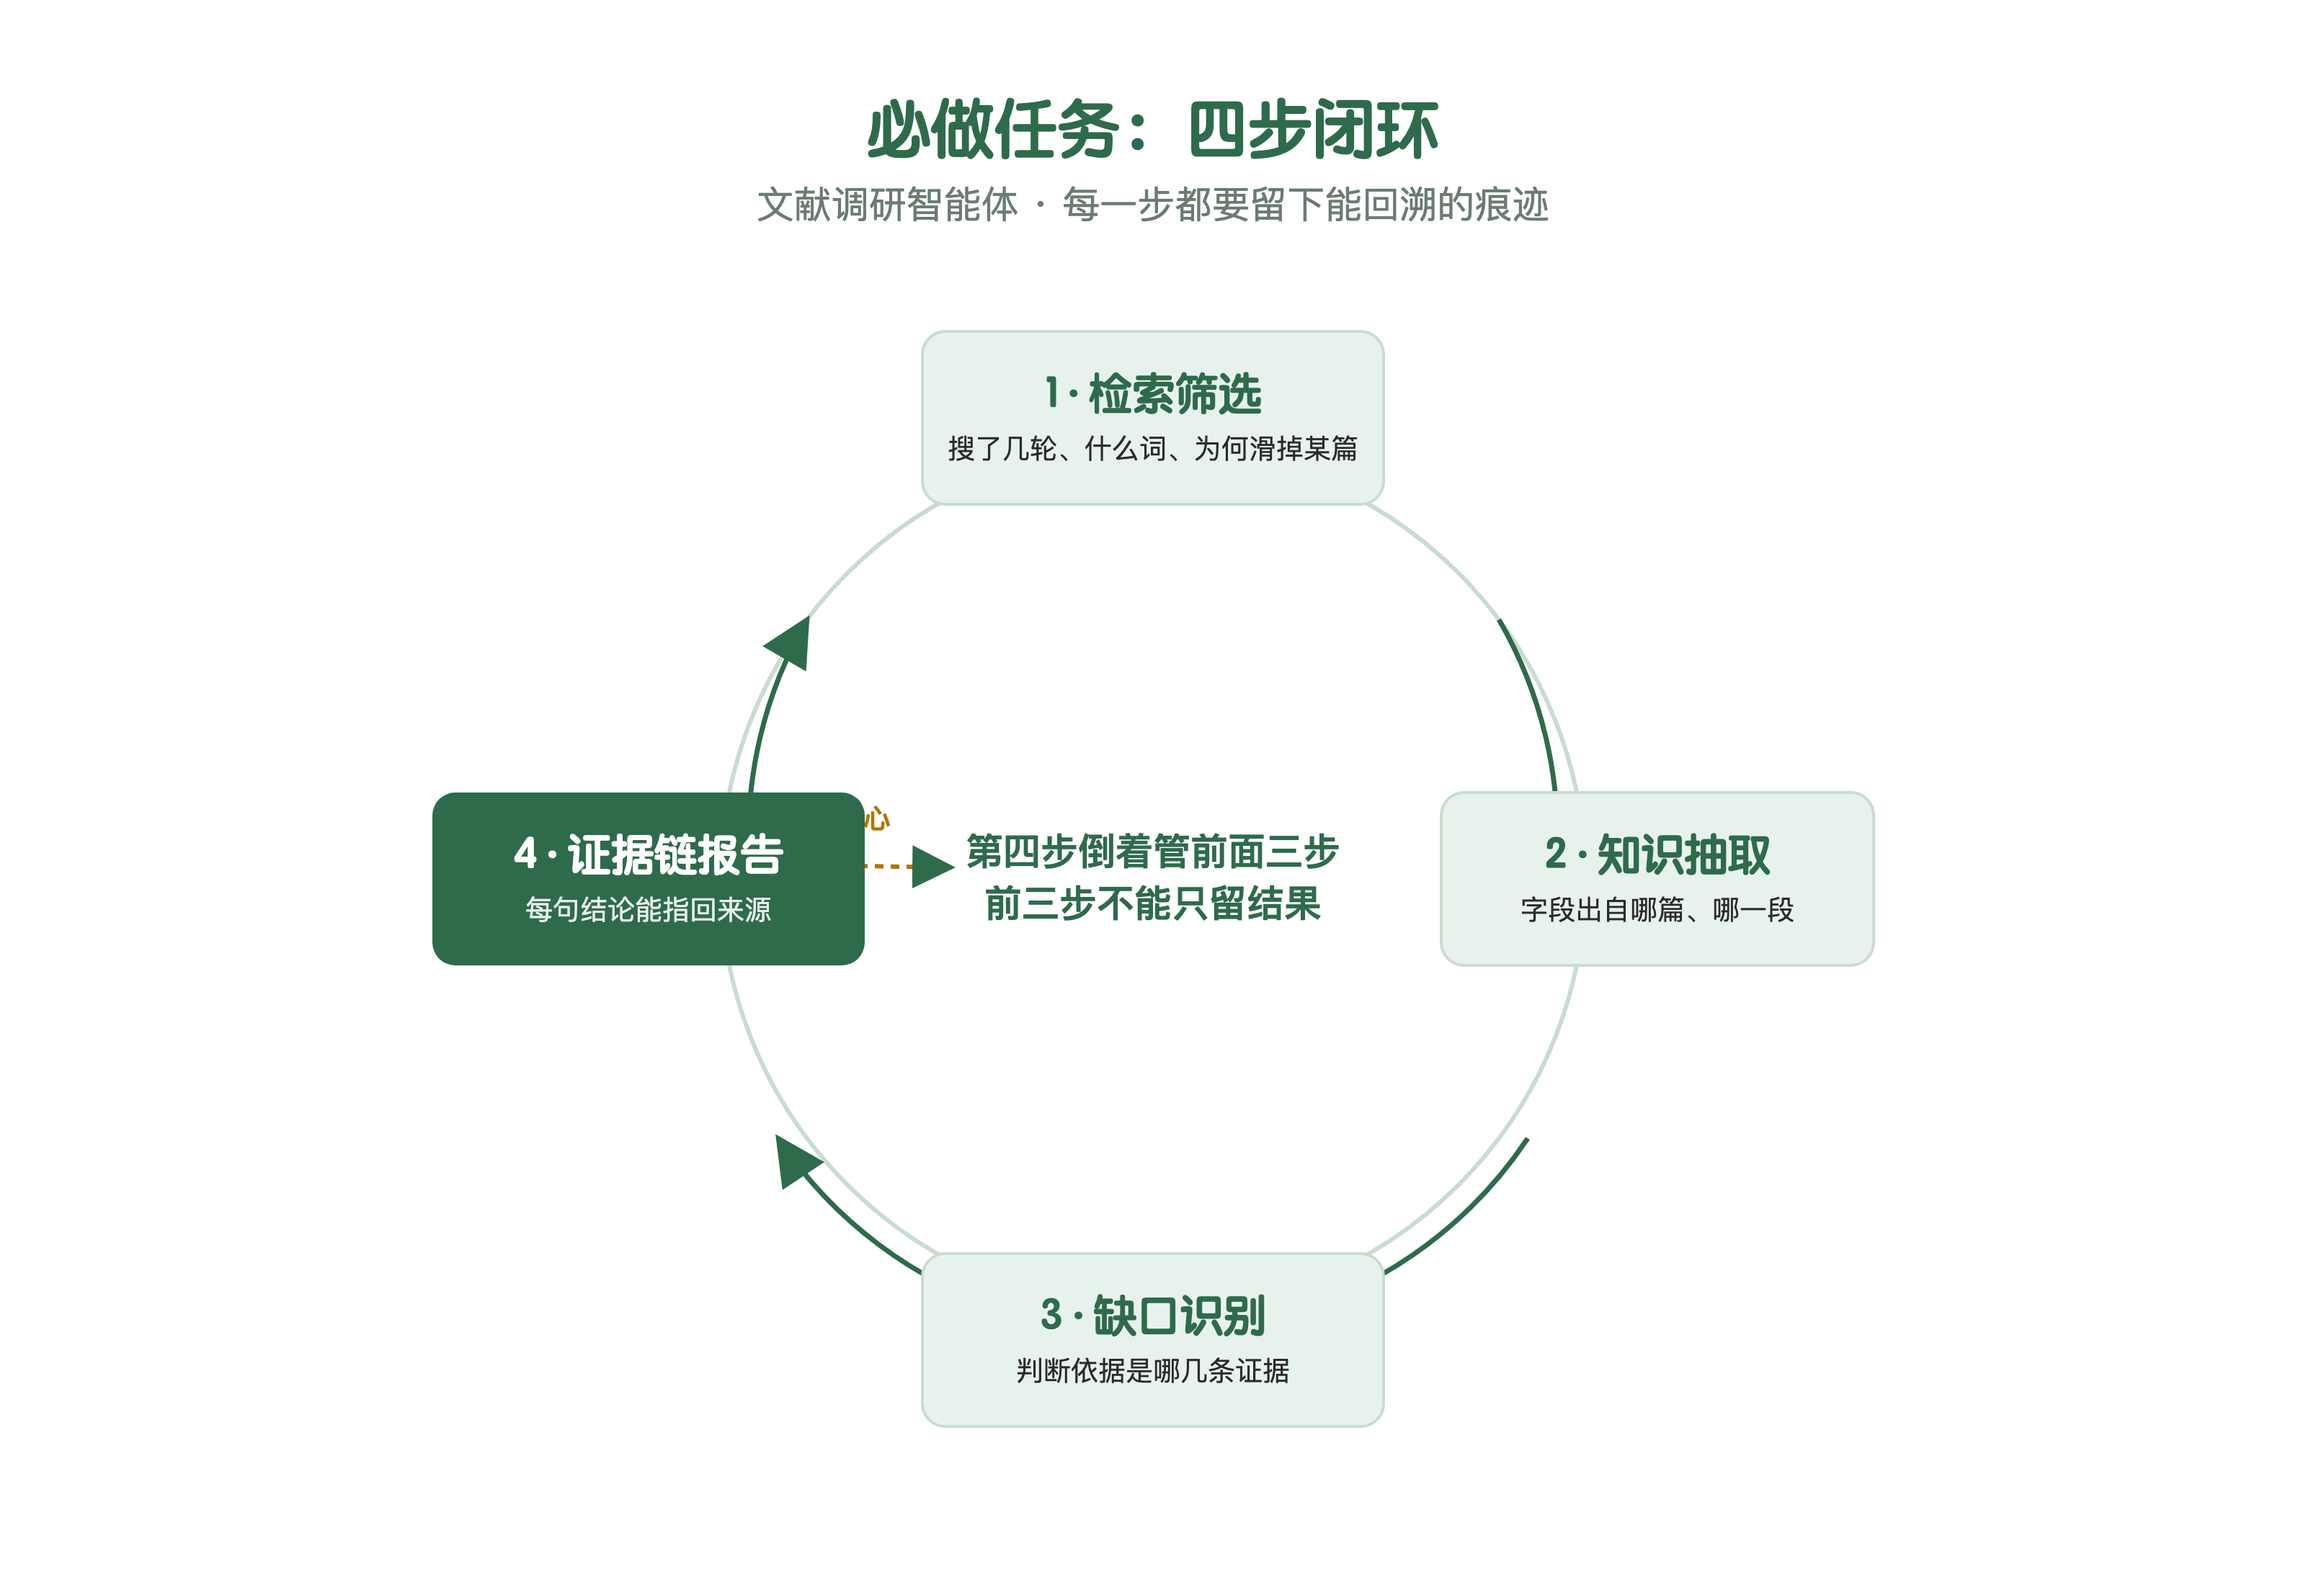
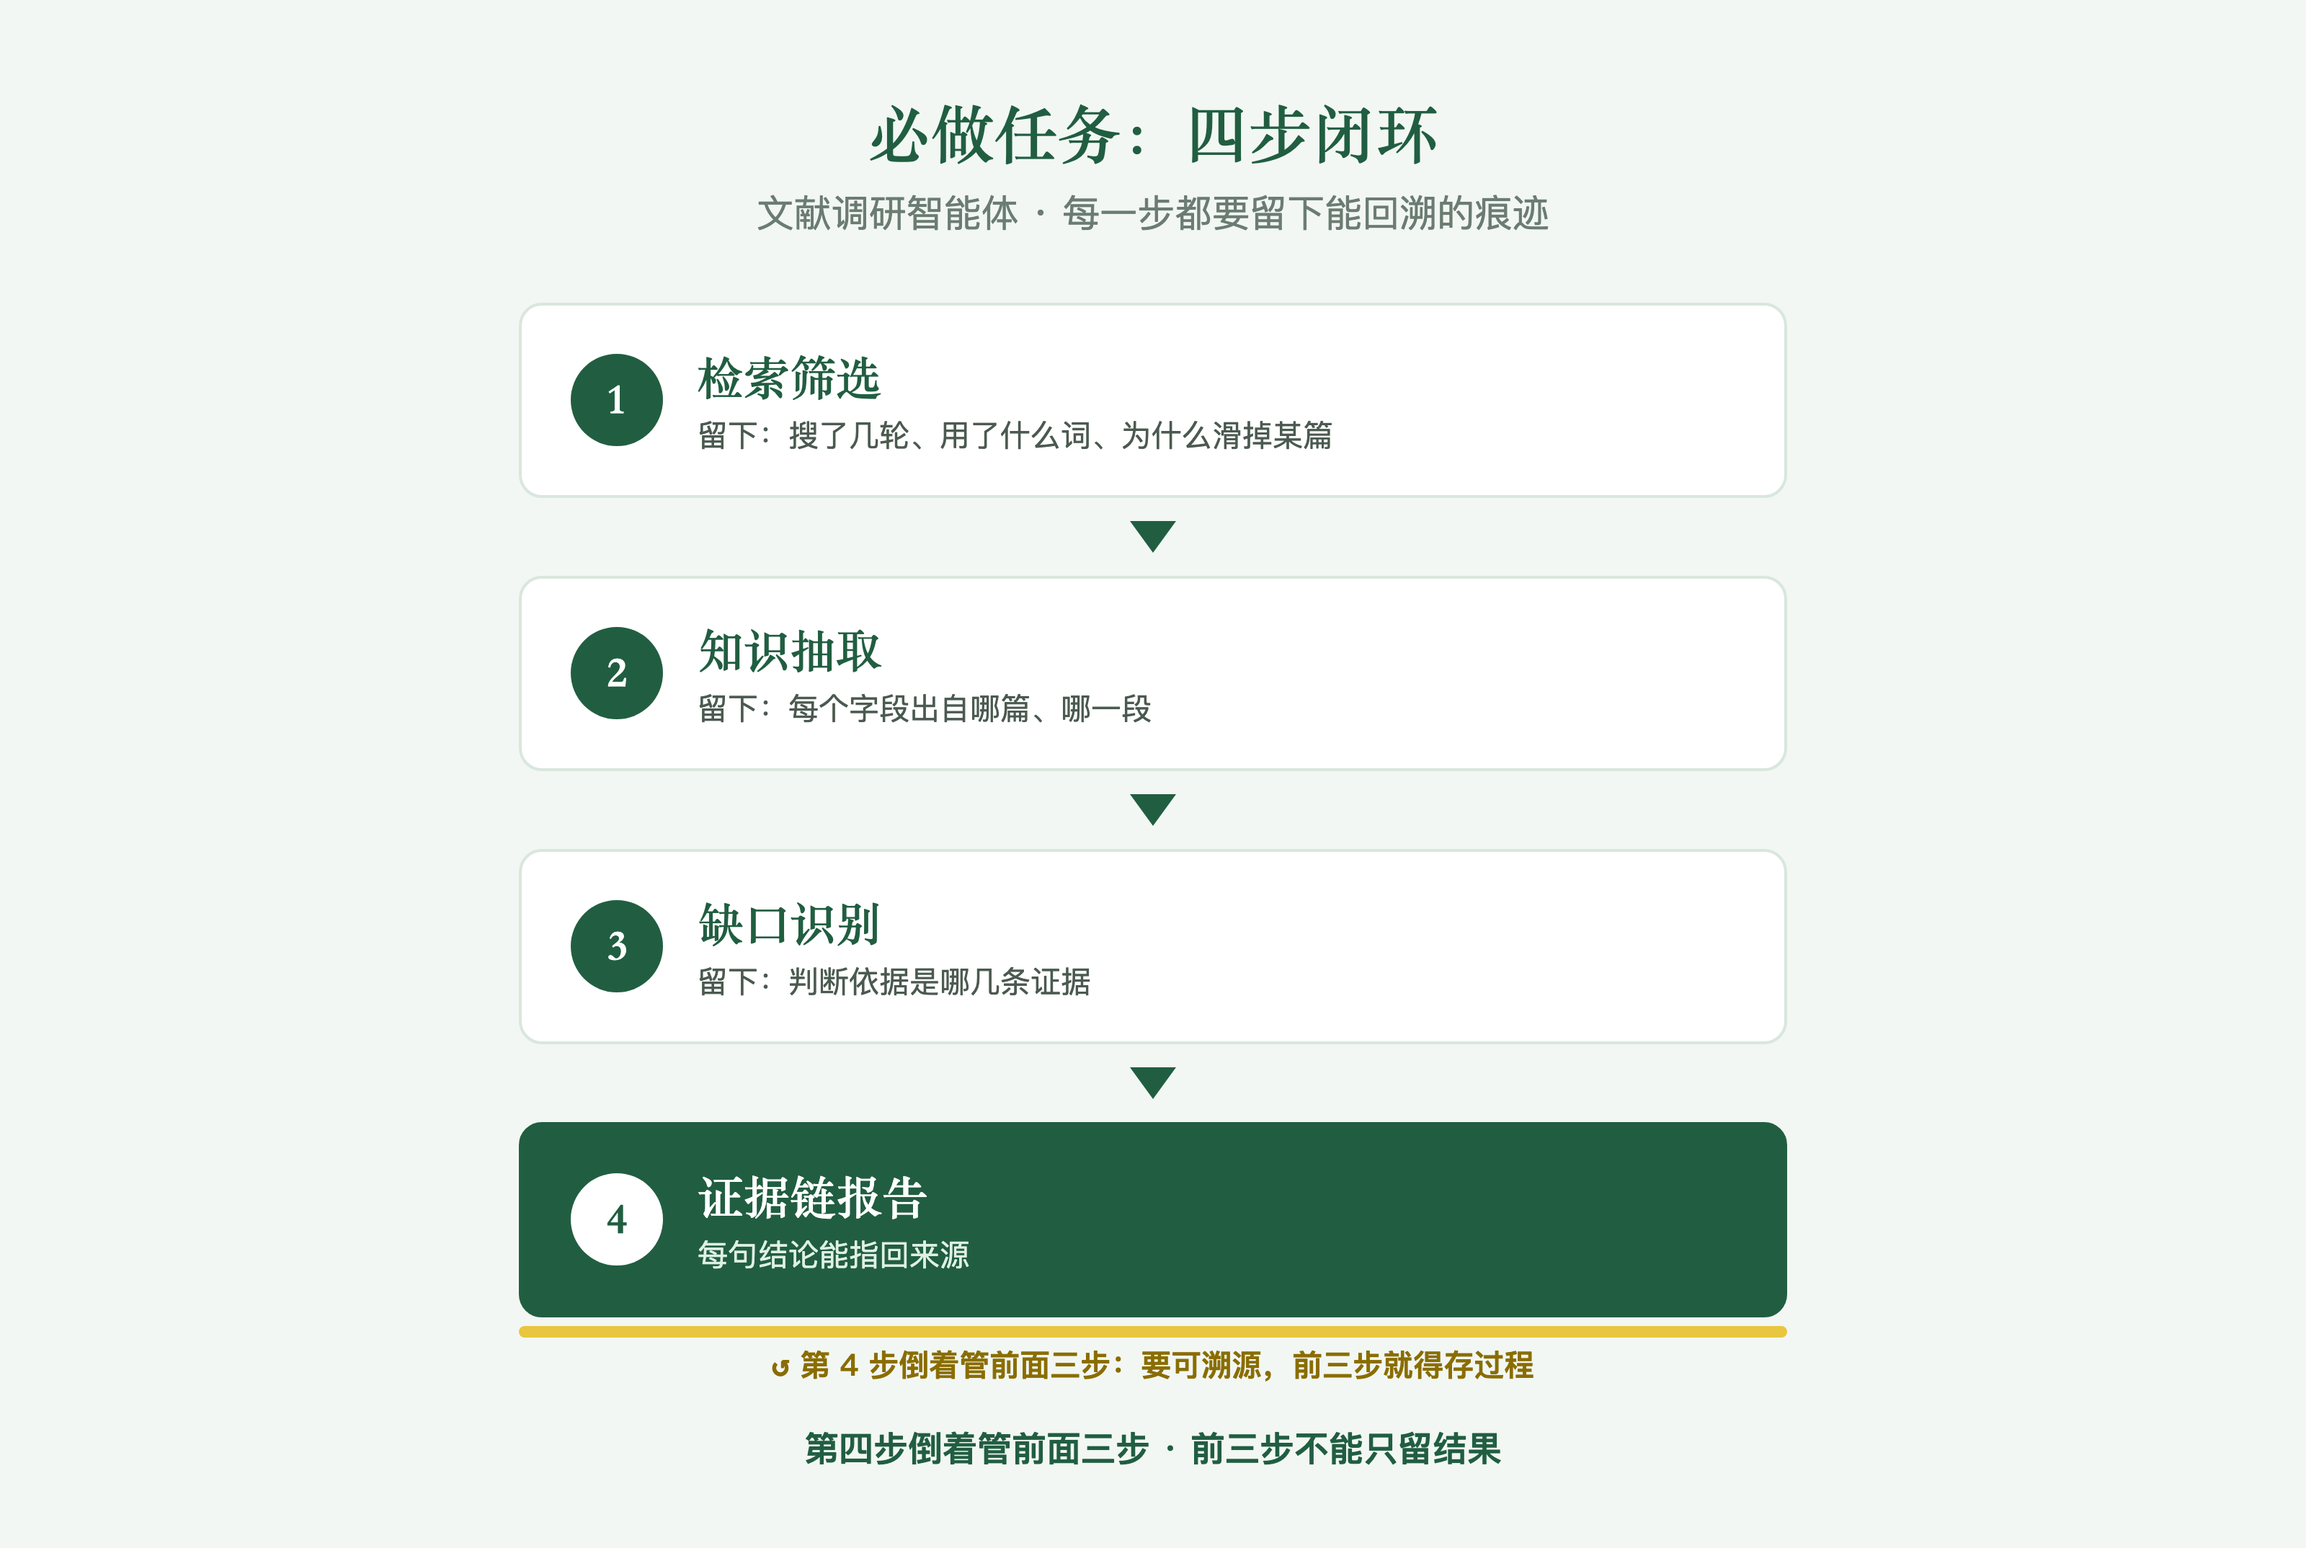
11 期：封面 + fig01 视觉迭代（主标题一行 / 四步闭环改卡片风）

diff --git a/articles/assets/day11/fig01-four-steps.html b/articles/assets/day11/fig01-four-steps.html
@@ -1,65 +1,38 @@
 <!DOCTYPE html><html><head><meta charset="utf-8"><style>
-html,body{margin:0;width:1600px;background:#FFFFFF;font-family:"PingFang SC",sans-serif}
-.card{width:1600px;box-sizing:border-box;padding:56px 40px 40px;background:#FFFFFF;text-align:center}
-h1{font-family:"Yuanti SC","PingFang SC",sans-serif;font-size:44px;font-weight:700;color:#2E6B4B;margin:0 0 6px}
-.sub{font-size:26px;color:#6B7C72;margin:0 0 10px}
-svg{display:block;margin:0 auto}
-.nt{font-size:30px;font-weight:700;font-family:"Yuanti SC","PingFang SC",sans-serif}
-.nd{font-size:19px;font-family:"PingFang SC",sans-serif}
-.ctr{font-size:26px;font-weight:700;fill:#2E6B4B;font-family:"PingFang SC",sans-serif}
-.note{font-size:19px;fill:#B37400;font-weight:700;font-family:"PingFang SC",sans-serif}
+html,body{margin:0;width:1600px;background:#F2F7F3;font-family:"PingFang SC",sans-serif}
+.card{width:1600px;box-sizing:border-box;padding:60px 64px 48px;background:#F2F7F3}
+h1{font-family:"Songti SC",serif;font-size:44px;font-weight:700;color:#215E41;margin:0 0 8px;text-align:center}
+.sub{font-size:26px;color:#6B7C72;margin:0 0 44px;text-align:center}
+.stage{display:flex;flex-direction:column;align-items:center}
+.node{width:880px;box-sizing:border-box;border-radius:16px;padding:26px 34px;background:#fff;border:2px solid #D9E7DD;display:flex;align-items:center;gap:24px}
+.node.hot{background:#215E41;border-color:#215E41}
+.node .no{flex:none;width:64px;height:64px;border-radius:50%;background:#215E41;color:#fff;display:flex;align-items:center;justify-content:center;font-size:30px;font-weight:900;font-family:"Songti SC",serif}
+.node.hot .no{background:#fff;color:#215E41}
+.node .tx{flex:1;text-align:left}
+.node .t{font-size:32px;font-weight:700;color:#215E41;font-family:"Songti SC",serif;margin-bottom:4px}
+.node.hot .t{color:#fff}
+.node .d{font-size:21px;color:#4b5a50;line-height:1.45}
+.node.hot .d{color:#DFF0E5}
+.arrow{width:0;height:0;border-left:16px solid transparent;border-right:16px solid transparent;border-top:22px solid #215E41;margin:16px 0}
+/* 第4步回指第1步的粗回流线 */
+.loop{position:relative;width:880px;height:34px;margin:6px 0 0}
+.loop .bar{position:absolute;left:0;top:0;height:8px;width:100%;background:#E9C63F;border-radius:4px}
+.loop .lbl{position:absolute;left:50%;top:12px;transform:translateX(-50%);font-size:21px;font-weight:800;color:#8a6d00;white-space:nowrap}
+.note{margin-top:34px;text-align:center;font-size:24px;font-weight:700;color:#215E41}
 </style></head><body>
 <div class="card">
   <h1>必做任务：四步闭环</h1>
   <p class="sub">文献调研智能体 · 每一步都要留下能回溯的痕迹</p>
-  <svg width="1040" height="900" viewBox="0 0 1040 900">
-    <defs>
-      <marker id="ah" markerWidth="12" markerHeight="12" refX="9" refY="5" orient="auto">
-        <path d="M0,0 L10,5 L0,10 z" fill="#2E6B4B"/>
-      </marker>
-    </defs>
-
-    <!-- 环形连接（顺时针 1→2→3→4→1） -->
-    <circle cx="520" cy="440" r="300" fill="none" stroke="#C9DCD1" stroke-width="3"/>
-    <!-- 顺时针四段弧箭头 -->
-    <path d="M 760 260 A 300 300 0 0 1 800 430" fill="none" stroke="#2E6B4B" stroke-width="3.5" marker-end="url(#ah)"/>
-    <path d="M 780 620 A 300 300 0 0 1 620 740" fill="none" stroke="#2E6B4B" stroke-width="3.5" marker-end="url(#ah)"/>
-    <path d="M 420 740 A 300 300 0 0 1 260 620" fill="none" stroke="#2E6B4B" stroke-width="3.5" marker-end="url(#ah)"/>
-    <path d="M 240 430 A 300 300 0 0 1 280 260" fill="none" stroke="#2E6B4B" stroke-width="3.5" marker-end="url(#ah)"/>
-
-    <!-- 圆心 -->
-    <text class="ctr" x="520" y="430" text-anchor="middle">第四步倒着管前面三步</text>
-    <text class="ctr" x="520" y="466" text-anchor="middle">前三步不能只留结果</text>
-
-    <!-- 第4节点回指圆心 -->
-    <path d="M 250 430 L 380 432" fill="none" stroke="#B37400" stroke-width="3" stroke-dasharray="6,5" marker-end="url(#ah)"/>
-    <text class="note" x="300" y="405" text-anchor="middle">回指圆心</text>
-
-    <!-- 四节点（圆周上右下左/上） -->
-    <!-- 1 顶 -->
-    <g>
-      <rect x="360" y="60" width="320" height="120" rx="16" fill="#E8F2EC" stroke="#C9DCD1" stroke-width="2"/>
-      <text class="nt" x="520" y="112" text-anchor="middle" fill="#2E6B4B">1 · 检索筛选</text>
-      <text class="nd" x="520" y="148" text-anchor="middle" fill="#2B2B2B">搜了几轮、什么词、为何滑掉某篇</text>
-    </g>
-    <!-- 2 右 -->
-    <g>
-      <rect x="720" y="380" width="300" height="120" rx="16" fill="#E8F2EC" stroke="#C9DCD1" stroke-width="2"/>
-      <text class="nt" x="870" y="432" text-anchor="middle" fill="#2E6B4B">2 · 知识抽取</text>
-      <text class="nd" x="870" y="468" text-anchor="middle" fill="#2B2B2B">字段出自哪篇、哪一段</text>
-    </g>
-    <!-- 3 底 -->
-    <g>
-      <rect x="360" y="700" width="320" height="120" rx="16" fill="#E8F2EC" stroke="#C9DCD1" stroke-width="2"/>
-      <text class="nt" x="520" y="752" text-anchor="middle" fill="#2E6B4B">3 · 缺口识别</text>
-      <text class="nd" x="520" y="788" text-anchor="middle" fill="#2B2B2B">判断依据是哪几条证据</text>
-    </g>
-    <!-- 4 左（实心重点） -->
-    <g>
-      <rect x="20" y="380" width="300" height="120" rx="16" fill="#2E6B4B"/>
-      <text class="nt" x="170" y="432" text-anchor="middle" fill="#FFFFFF">4 · 证据链报告</text>
-      <text class="nd" x="170" y="468" text-anchor="middle" fill="#E8F2EC">每句结论能指回来源</text>
-    </g>
-  </svg>
+  <div class="stage">
+    <div class="node"><span class="no">1</span><div class="tx"><div class="t">检索筛选</div><div class="d">留下：搜了几轮、用了什么词、为什么滑掉某篇</div></div></div>
+    <div class="arrow"></div>
+    <div class="node"><span class="no">2</span><div class="tx"><div class="t">知识抽取</div><div class="d">留下：每个字段出自哪篇、哪一段</div></div></div>
+    <div class="arrow"></div>
+    <div class="node"><span class="no">3</span><div class="tx"><div class="t">缺口识别</div><div class="d">留下：判断依据是哪几条证据</div></div></div>
+    <div class="arrow"></div>
+    <div class="node hot"><span class="no">4</span><div class="tx"><div class="t">证据链报告</div><div class="d">每句结论能指回来源</div></div></div>
+    <div class="loop"><span class="bar"></span><span class="lbl">↺ 第 4 步倒着管前面三步：要可溯源，前三步就得存过程</span></div>
+  </div>
+  <div class="note">第四步倒着管前面三步 · 前三步不能只留结果</div>
 </div>
 </body></html>

diff --git a/articles/assets/day11/cs11-cover.html b/articles/assets/day11/cs11-cover.html
@@ -2,9 +2,9 @@
 html,body{margin:0;width:1024px;height:1024px;overflow:hidden}
 body{font-family:"Yuanti SC","PingFang SC",sans-serif;background:#2E6B4B}
 .wrap{height:1024px;box-sizing:border-box;padding:74px 60px 0;display:flex;flex-direction:column;align-items:center;text-align:center}
-.en{color:#fff;font-size:60px;font-weight:900;line-height:1.05;letter-spacing:.01em}
-.zh{color:#fff;font-size:96px;font-weight:900;line-height:1.12;letter-spacing:.02em;margin-top:12px;white-space:nowrap}
-.day{margin-top:22px;color:#fff;font-size:40px;font-weight:800;letter-spacing:.02em;line-height:1.3}
+.en{color:#fff;font-size:62px;font-weight:900;line-height:1.05;letter-spacing:.01em}
+.zh{color:#fff;font-size:88px;font-weight:900;line-height:1.12;letter-spacing:.02em;margin-top:14px;white-space:nowrap}
+.day{margin-top:22px;color:#fff;font-size:38px;font-weight:800;letter-spacing:.02em;line-height:1.3}
 .art{margin-top:44px;width:904px;height:470px;border-radius:36px;overflow:hidden}
 .art img{width:100%;display:block;margin-top:-20px}
 </style></head><body><div class="wrap">
